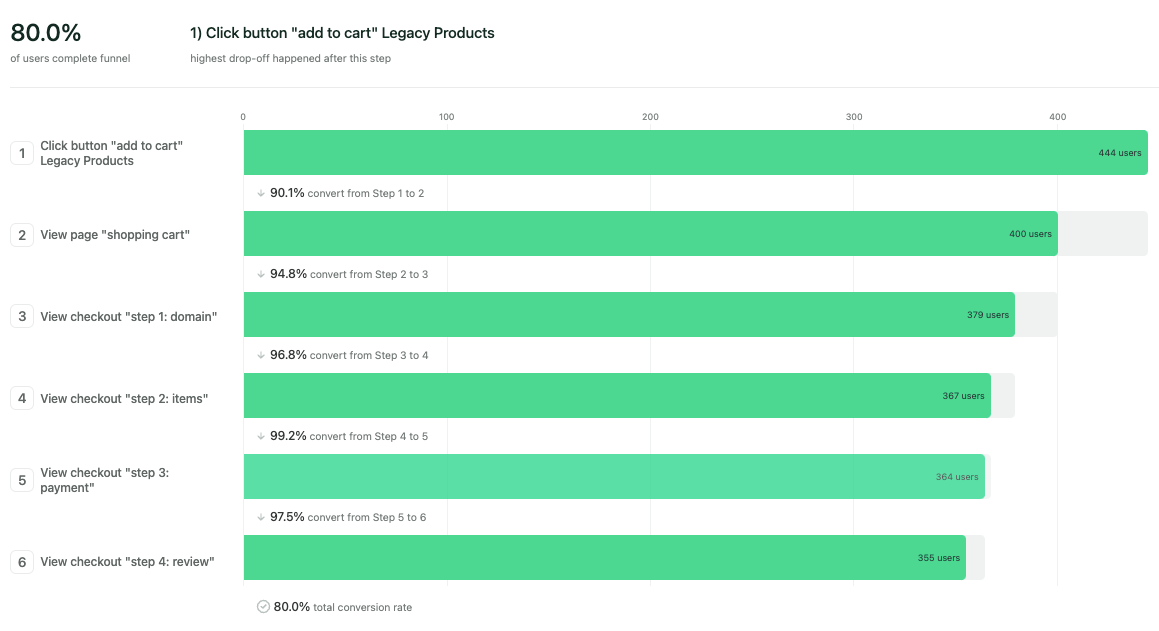
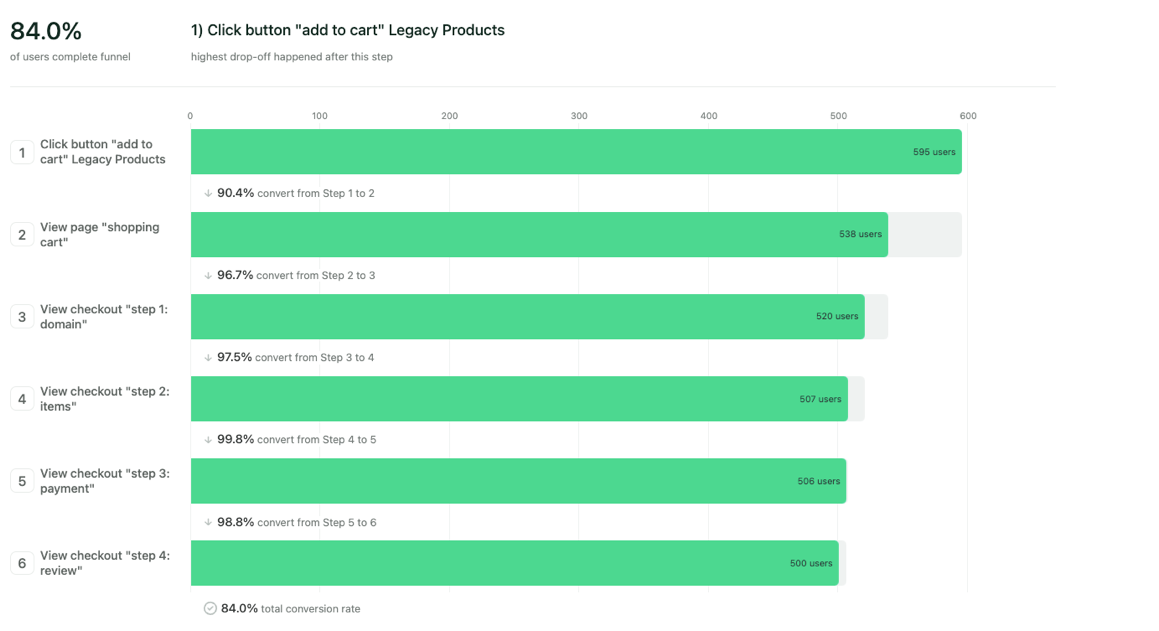
adding buying card adoption metrics

diff --git a/NCE.html b/NCE.html
@@ -554,7 +554,7 @@ This project involved numerous meetings and discussions with key stakeholders an
                         
                       <div class="col-xs-12">
                      <h1 class="designframework2 designframework-center white-font">
-                   Data Analysis</h1>
+                   Feature Adoption - Analysis</h1>
                    </div>
                    </div> <!-- close row -->
                    </div>
@@ -568,7 +568,7 @@ This project involved numerous meetings and discussions with key stakeholders an
                  It was important to analyse user adoption of the new buying cards. Heap Analytics was used for this data analysis.
                   A new event was defined in Heap and used to create a separate Cart > Checout funnel for New Commerce products.
                   The intention was to validate the new design and to also obtain Quantitative data that backed up the Qualitative feedback from 
-                  users during the UAT sessions of the new purchasing cards. The analysis was run for a 3 month period, following on from the 
+                  users during the UAT sessions of the new purchasing cards. The analysis was run for a 6 month period, following on from the 
                   deployment of the new cards to production in March 2022.
                  </p>
 
@@ -588,7 +588,7 @@ This project involved numerous meetings and discussions with key stakeholders an
                    <div class="row">
                     <div class="col-xs-6">
                       <h2 class="retro-sub-heading2 ">
-                       Funnel: Cart > Checkout (March 1st - May 31st 2022) </h2>
+                       Funnel: Cart > Checkout (March 1st - Aug 31st 2022) </h2>
 
                        </div> 
                        </div>
@@ -605,8 +605,9 @@ This project involved numerous meetings and discussions with key stakeholders an
                              <div class="row">
                               <div class="col-xs-12 ">
                               <p class="portfolio-detail-body">
-                                The legacy card funnel had a conversion rate of 80%, with the highest drop-off happening in step1 - the add to cart step.
+                                The legacy card funnel had a conversion rate of 84%, with the highest drop-off happening in step 1 - the add to cart step.
                                 Some users were adding to cart from the product list card but then not moving into the shopping cart to complete the buying journey.
+                                A separate piece of analysis and design was undertaken to re-design the mini-cart which can be viewed {LINK TO CART UX IMPROVEMENT} in my portfolio.
                                    </p>
                                    </div>
                                    </div>
@@ -621,7 +622,7 @@ This project involved numerous meetings and discussions with key stakeholders an
                                        <div class="row">
                                         <div class="col-xs-6">
                                           <h2 class="retro-sub-heading2 ">
-                                           Funnel: Cart > Checkout (March 1st - May 31st 2022) </h2>
+                                           Funnel: Cart > Checkout (March 1st - Aug 31st 2022) </h2>
                     
                                            </div> 
                                            </div>
@@ -638,20 +639,62 @@ This project involved numerous meetings and discussions with key stakeholders an
                                                  <div class="row">
                                                   <div class="col-xs-12 ">
                                                   <p class="portfolio-detail-body">
-                                                    The New Commerce card funnel had a conversion rate of 93.4% for the same period analysed. 
-                                                    <b>This was an increased conversion of 13.4% when compared to the Legacy product card design.</b> 
+                                                    The New Commerce card funnel had a conversion rate of 94.8% for the same period analysed. 
+                                                    <b>This was an increased conversion of 10.8% when compared to the Legacy product card design.</b> 
                           
-                                                    The highest drop-off for New Commerce was happening in step2 - the shopping cart page.
+                                                    The highest drop-off for New Commerce was happening in step 2 - the shopping cart page.
                                                     Some users were moving into the cart but they were not continuing to the checkout to complete the buying journey.
-                                                    A separate piece of analysis was undertaken to determine reasons for user abandonment in step2 of the funnel. However the overall
+                                                    A separate piece of analysis was undertaken to determine reasons for user abandonment in step 2 of the funnel. However the overall
                                                     conversion rate was very positive and validated the new design.
                                                        </p>
                                                        <p class="portfolio-detail-body">
                                                       <i> Note: The volume of users shown in the New Commerce funnel is lower than in the Legacy card funnel as more products were still using the 
-                                                       legacy design - only 365 products moved to New Commerce.</i>
+                                                       legacy design - only Microsoft 365 products moved to New Commerce.</i>
                                                        </p>
                                                        </div>
                                                        </div>
+
+                                                       <div class="row">
+                                                        <div class="col-xs-12 image-padding ">
+                                                          <img src="assets/images/NCe_add_cart_usage.png" style="background-color:#FFF; " class="img-responsive" alt="Legacy Cart Funnel">
+                                                                         </div>
+                                                                         </div>
+
+
+                                     <div class="row">
+                                    <div class="col-lg-6">
+                                      <h1 class="adoption-metrics">
+                                     Adoption Metrics </h1>
+                                       </div> 
+                                       </div>
+
+
+                                                       <div class="row image-padding">
+                                                        <div class="col-lg-4">
+                                                          <h1 class="NCE-buying-h1">
+                                                            94.8%  </h1>
+                                                            <h2 class="NCE-buying-h2 ">
+                                                              Cart > Checkout funnel completion rate </h2>
+                                                           </div> 
+
+                                                           <div class="col-lg-4">
+                                                            <h1 class="NCE-buying-h1">
+                                                           2,022 </h1>
+                                                              <h2 class="NCE-buying-h2 ">
+                                                            Products added to cart</h2>
+                                                             </div> 
+                                                             
+                                                             <div class="col-lg-4">
+                                                              <h1 class="NCE-buying-h1">
+                                                             €1.2M* </h1>
+                                                                <h2 class="NCE-buying-h2 ">
+                                                            Revenue Generated</h2>
+                                                               </div> 
+
+
+                                                           </div>
+
+                                                       
 
 
                     </div><!--close container-->

diff --git a/assets/css/style.css b/assets/css/style.css
@@ -867,8 +867,19 @@ section {
     font-size:35px;
 }
 
+.NCE-buying-h1 {
+    font-size: 80px;
+}
 
+.NCE-buying-h2 {
+    font-size: 25px;
+    color: #888686;
+}
 
+.adoption-metrics {
+    font-size: 30px;
+   
+}
 
 @media screen and (min-device-width: 768px) and (max-device-width: 1024px) { 
 .savebutton {
@@ -985,6 +996,9 @@ section {
     
     
      @media screen and (min-device-width: 1024px) and (max-device-width: 1366px) { 
+
+
+       
          
            .process-number-heading {
         font-size: 35px;
